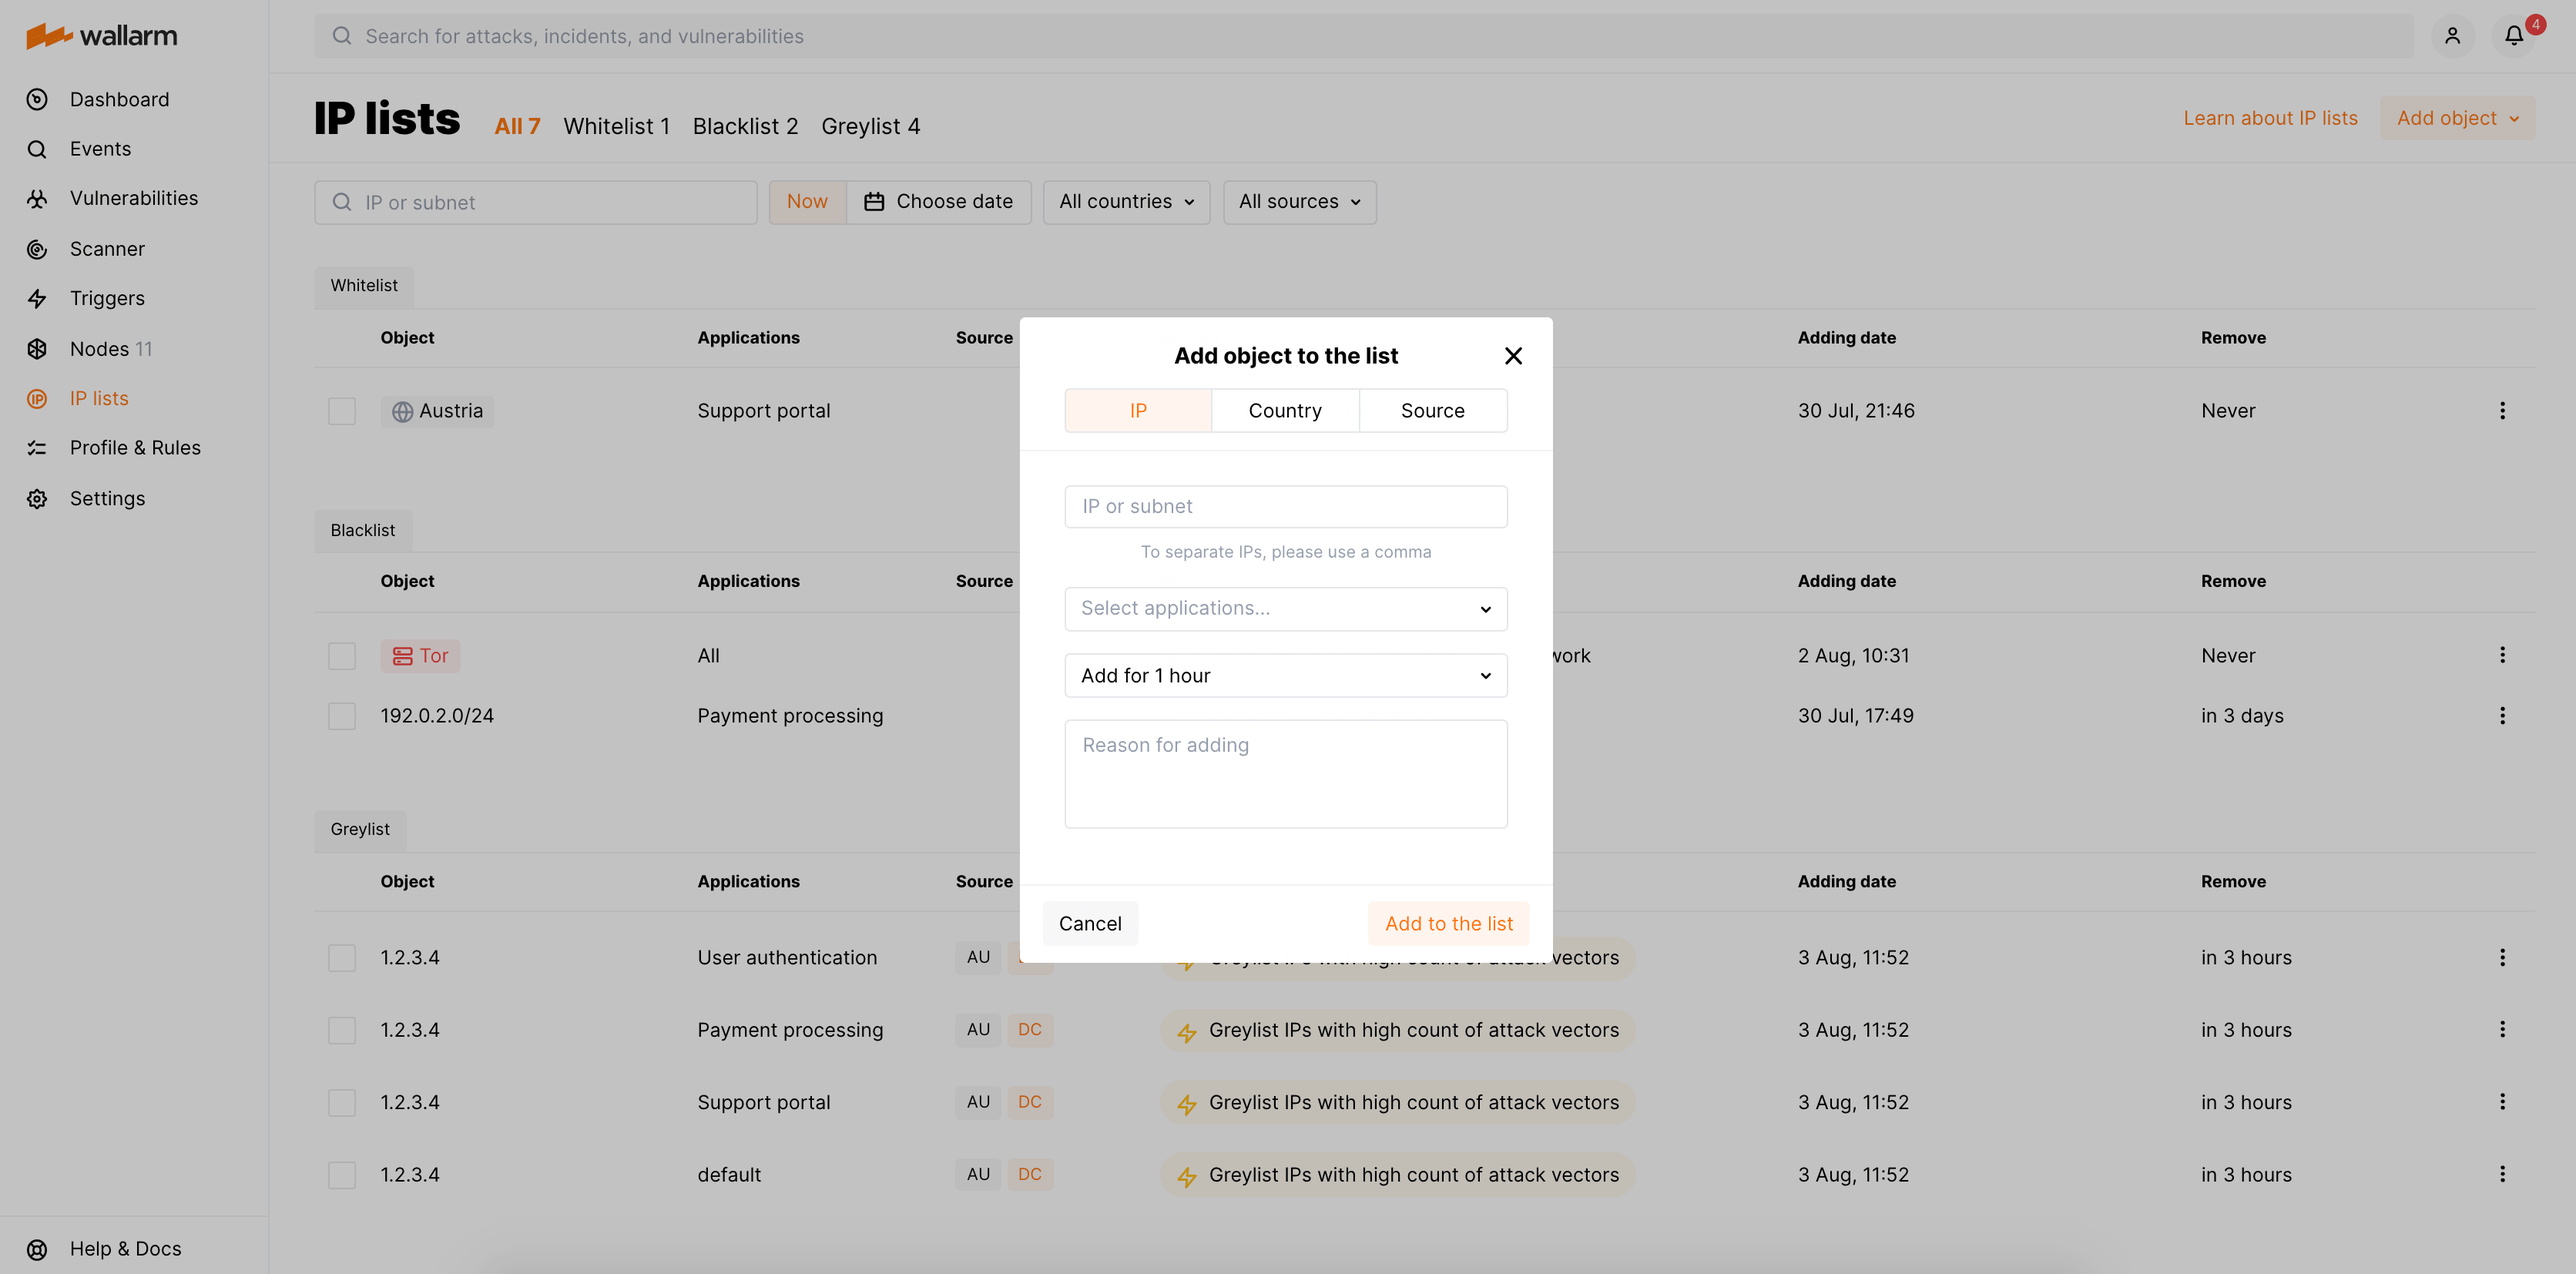
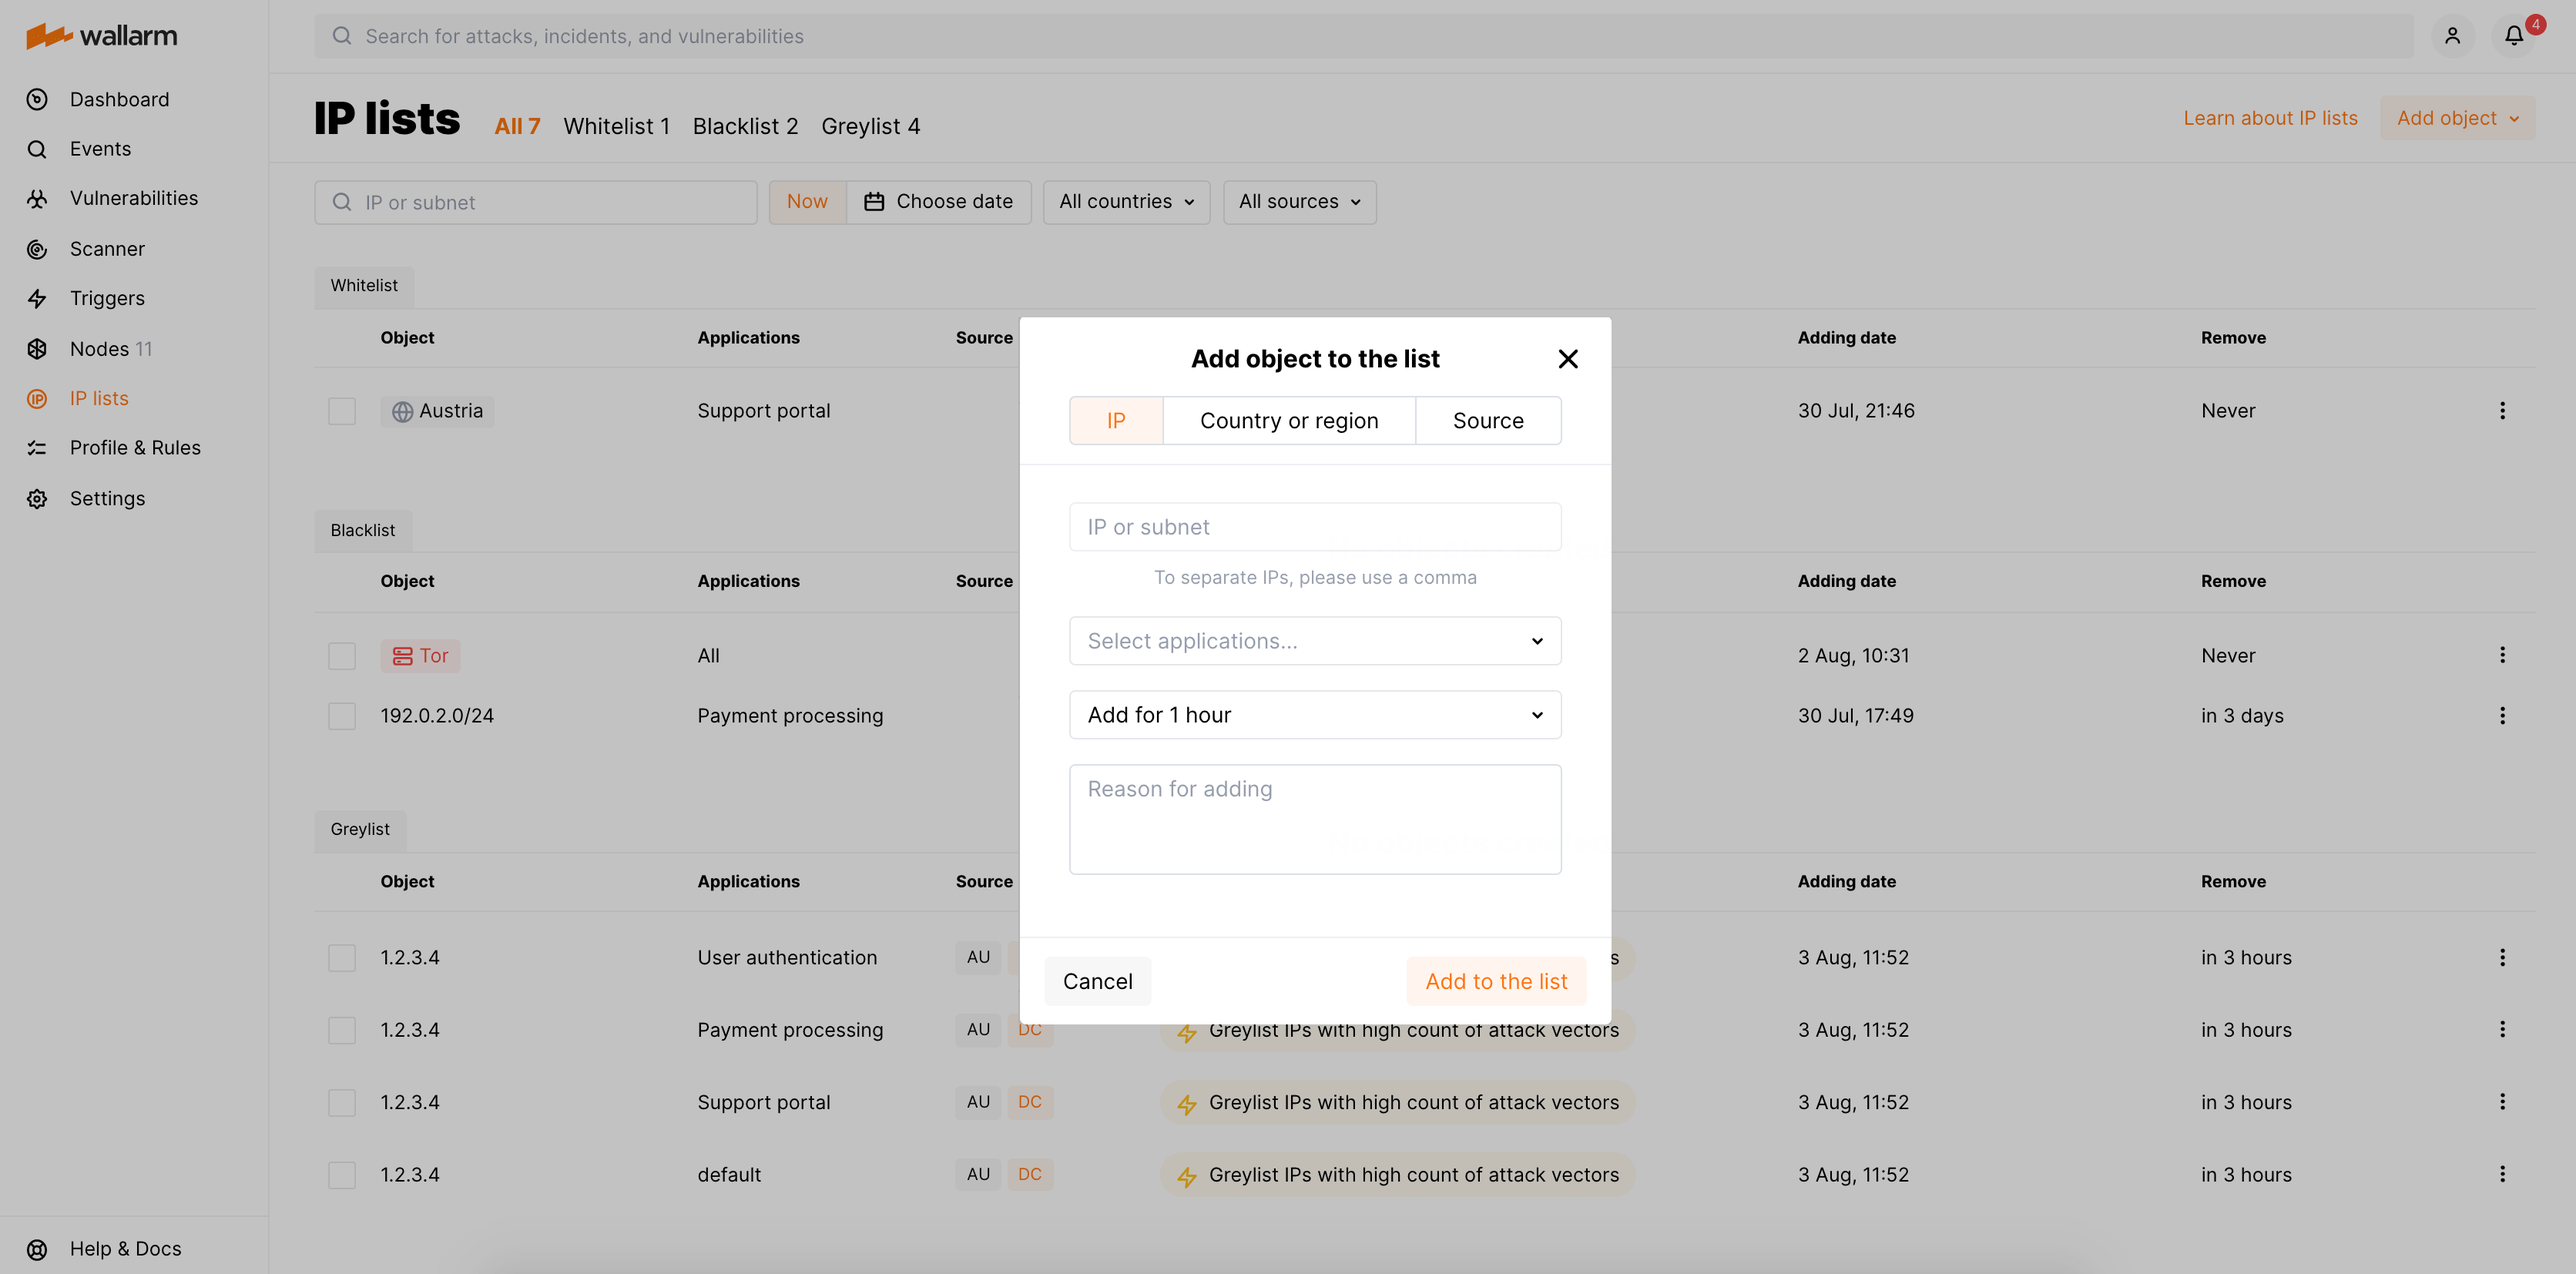
DOCS-1650 Country renamed

Changed region(s): [[0.3732, 0.2467, 0.6531, 0.8017]]

diff --git a/include/waf/features/ip-lists/common-actions-with-lists.md b/include/waf/features/ip-lists/common-actions-with-lists.md
@@ -10,7 +10,7 @@ To add an IP address, subnet, or group of IP addresses to the list:
         !!! info "Supported subnet masks"
             Maximum supported subnet mask is `/32` for IPv6 addresses and `/12` for IPv4 addresses.
     
-    * Select a **country** (geolocation) to add all IP addresses registered in this country
+    * Select a **country** or a **region** (geolocation) to add all IP addresses registered in this country/region
     * Select a **source** to add all IP addresses that belong to this source:
         * **Tor** for IP addresses of the Tor network
         * **Proxy** for IP addresses of public or web proxy servers
@@ -28,10 +28,10 @@ To add an IP address, subnet, or group of IP addresses to the list:
 
 The Wallarm Console displays the following data on each object added to the list:
 
-* **Object** - IP address, subnet, country or IP source added to the list.
+* **Object** - IP address, subnet, country/region or IP source added to the list.
 * **Application** - application to which access configuration of the object is applied. Since applying the [object access configuration to specific applications is limited](overview.md#known-caveats-of-ip-lists-configuration), this column always displays the value **All**.
 * **Source** - source of a single IP address or subnet:
-    * Country (geolocation) where a single IP address or subnet is registered
+    * Country/region (geolocation) where a single IP address or subnet is registered
     * Data center where a single IP address or subnet is registered: **AWS** for Amazon, **GCP** for Google Cloud Platform, **Azure** for Microsoft Azure
     * **Tor** for IP address of the Tor network
     * **Proxy** for IP address of public or web proxy servers
@@ -46,7 +46,7 @@ You can filter the objects in the list by:
 
 * IP address or subnet specified in the search string
 * Period for which you want to get a status of the list
-* Country in which an IP address or a subnet is registered
+* Country/region in which an IP address or a subnet is registered
 * Source to which an IP address or a subnet belongs
 
 ## Changing the time that an object is on the list

diff --git a/include/waf/features/ip-lists/common-actions-with-lists-allow-apps.md b/include/waf/features/ip-lists/common-actions-with-lists-allow-apps.md
@@ -14,7 +14,7 @@ To add an IP address, subnet, or group of IP addresses to the list:
         !!! info "Supported subnet masks"
             The supported maximum subnet mask is `/32` for IPv6 addresses and `/12` for IPv4 addresses.
     
-    * Select a **country** (geolocation) to add all IP addresses registered in this country
+    * Select a **country** or a **region** (geolocation) to add all IP addresses registered in this country or region
     * Select a **source** to add all IP addresses that belong to this source:
         * **Tor** for IP addresses of the Tor network
         * **Proxy** for IP addresses of public or web proxy servers
@@ -34,10 +34,10 @@ To add an IP address, subnet, or group of IP addresses to the list:
 
 The Wallarm Console displays the following data on each object added to the list:
 
-* **Object** - IP address, subnet, country or IP source added to the list.
+* **Object** - IP address, subnet, country/region or IP source added to the list.
 * **Application** - application to which access configuration of the object is applied.
 * **Source** - source of a single IP address or subnet:
-    * Country (geolocation) where a single IP address or subnet is registered
+    * Country/region (geolocation) where a single IP address or subnet is registered
     * Data center where a single IP address or subnet is registered: **AWS** for Amazon, **GCP** for Google Cloud Platform, **Azure** for Microsoft Azure
     * **Tor** for IP address of the Tor network
     * **Proxy** for IP address of public or web proxy servers
@@ -52,7 +52,7 @@ You can filter the objects in the list by:
 
 * IP address or subnet specified in the search string
 * Period for which you want to get a status of the list
-* Country in which an IP address or a subnet is registered
+* Country/region in which an IP address or a subnet is registered
 * Source to which an IP address or a subnet belongs
 
 ## Changing the time that an object is on the list

diff --git a/docs/latest/user-guides/events/check-attack.md b/docs/latest/user-guides/events/check-attack.md
@@ -25,7 +25,7 @@ You can check detected attacks, incidents, and vulnerabilities in the **Events**
 * **Payloads**: Attack type and the number of unique [malicious payload](../../glossary-en.md#malicious-payload). 
 * **Top IP / Source**: The IP address from which the malicious requests originated. When the malicious requests originate from several IP addresses, the interface shows the IP address responsible for the most requests. There is also the following data displayed for the IP address:
      * The total number of IP addresses from which the requests in the same attack originated during the specified timeframe. 
-     * The country in which the IP address is registered (if it was found in the Wallarm databases)
+     * The country/region in which the IP address is registered (if it was found in the Wallarm databases)
      * Which data center the given IP addresses belong to: the **AWS** tag for Amazon, the **GCP** tag for Google, the **Azure** tag for Microsoft data centers, and **DC** for other data centers (if it was found in the Wallarm's databases such as IP2Location or others)
      * The **Tor** tag if the attack's source is the Tor network (if it was found in the Wallarm's databases such as IP2Location or others)
      * The **VPN** tag if IP address belongs to VPN (if it was found in the Wallarm's databases such as IP2Location or others)

diff --git a/docs/latest/user-guides/search-and-filters/use-search.md b/docs/latest/user-guides/search-and-filters/use-search.md
@@ -219,11 +219,11 @@ This attribute value can be:
 * `azure` for Microsoft Azure
 * `gce` for Google Cloud Platform
 
-### Search by the country in which the IP address is registered
+### Search by the country or region in which the IP address is registered
 
-To search by the country, in which the IP address originated the attacks is registered, use the `country:` prefix.
+To search by the country or the region, in which the IP address originated the attacks is registered, use the `country:` prefix.
 
-The country name should be passed to the attribute in the format corresponding to the standard [ISO 3166-1](https://en.wikipedia.org/wiki/ISO_3166-1) in uppercase or lowercase letters. For example: `country:CN` or `country:cn` for attacks originated from China.
+The country/region name should be passed to the attribute in the format corresponding to the standard [ISO 3166-1](https://en.wikipedia.org/wiki/ISO_3166-1) in uppercase or lowercase letters. For example: `country:CN` or `country:cn` for attacks originated from China.
 
 ### Search by server response status
 

diff --git a/docs/latest/user-guides/events/analyze-attack.md b/docs/latest/user-guides/events/analyze-attack.md
@@ -31,7 +31,7 @@ Each request displays the associated information in the following columns:
 * *Date*: Date and time of the request.
 * *Payload*: [malicious payload][glossary-attack-vector]. Clicking the value in the payload column displays reference information on the attack type.
 * *Source*: The IP address from which the request originated. Clicking the IP address adds the IP address value into the search field. The following information is also displayed if it was found in the Wallarm's databases (IP2Location and others):
-    * The country in which the IP address is registered
+    * The country/region in which the IP address is registered
     * Which data center the given IP addresses belong to: the **AWS** tag for Amazon, the **GCP** tag for Google, the **Azure** tag for Microsoft data centers, and **DC** for other data centers
     * The **Tor** tag if the attack's source is the Tor network
     * The **VPN** tag if IP address belongs to VPN

diff --git a/docs/latest/admin-en/configuration-guides/configure-block-page-and-code.md b/docs/latest/admin-en/configuration-guides/configure-block-page-and-code.md
@@ -439,7 +439,7 @@ kubectl annotate ingress <INGRESS_NAME> nginx.ingress.kubernetes.io/wallarm-bloc
 
 ### Named NGINX `location`
 
-This example shows settings to return to the client the message `The page is blocked` and the error code 445 regardless of the reason for request blocking (blocking or safe blocking mode, origin blacklisted as a single IP / subnet / country / data center).
+This example shows settings to return to the client the message `The page is blocked` and the error code 445 regardless of the reason for request blocking (blocking or safe blocking mode, origin blacklisted as a single IP / subnet / country or region / data center).
 
 #### NGINX configuration file
 

diff --git a/docs/latest/user-guides/dashboard/waf.md b/docs/latest/user-guides/dashboard/waf.md
@@ -81,6 +81,6 @@ Clicking the attack type redirects to the [**Events** section][doc-events-tab] w
 
 The block shows statistics on the attack sources for the selected period:
 
-* World map with the attack number distributed by source country
+* World map with the attack number distributed by source country/region
 * Top attack source countries
 * Top attack source resources: statistics on data centers IP addresses from which requests were received

diff --git a/include/waf/features/ip-lists/common-actions-with-lists-overview.md b/include/waf/features/ip-lists/common-actions-with-lists-overview.md
@@ -1,5 +1,5 @@
 * Add a single IP address or a subnet
-* Add a group of IP addresses registered in a specific country, data center, network, etc.
+* Add a group of IP addresses registered in a specific country/region, data center, network, etc.
 * Customize the time and reason for storing the IP address in the list
 * Delete IP address from the list
 * Review the history of list changes
